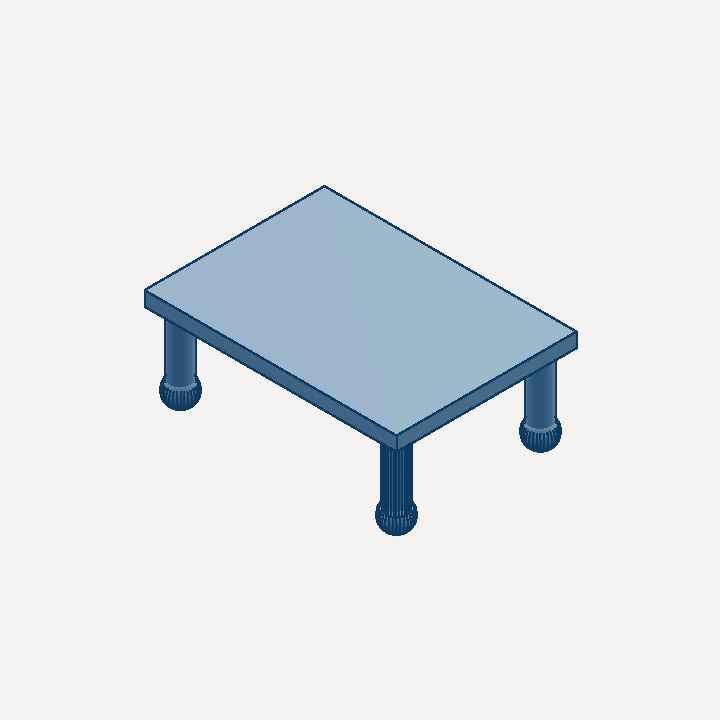
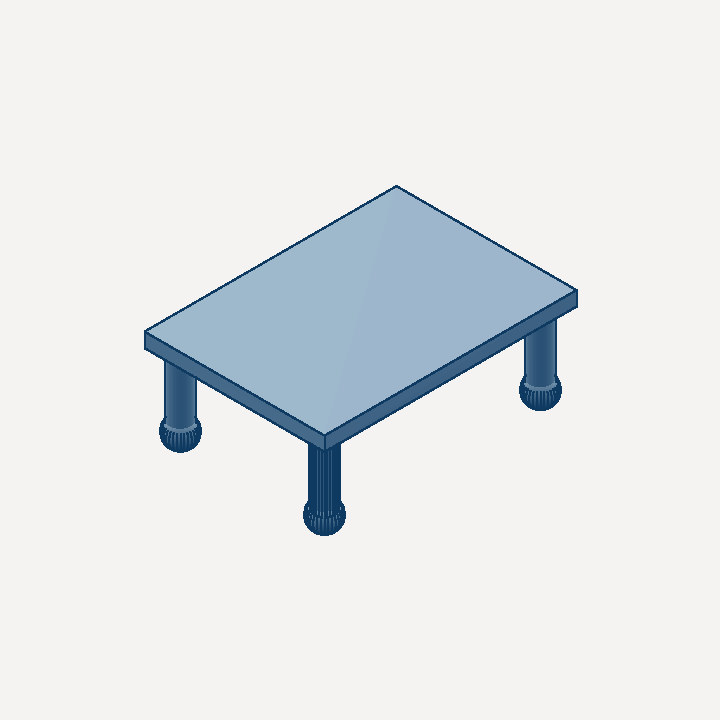
fix(render): un-mirror the default isometric view (#728)
`View::Isometric` used `right = [COS30, -COS30, 0]`, which makes
`right x down` point OUT of the screen — a left-handed screen basis, so
every isometric render was a mirror image. Reconstructing the camera
from that basis puts the eye at (-1,-1,-1), contradicting `cam()`'s own
doc comment. Every other view is right-handed, and so is the app
viewport (a real Three.js camera at (50,50,50)), so the static renderer
and the app have disagreed all along.

It survived because flat-shaded orthographic line art has no shadows,
reflections, or text — a mirror is visually indistinguishable. It only
became visible when a path tracer was pointed at the same basis.

- `right` is now `[-COS30, COS30, 0]`, the true screen-right for a
  camera at (1,1,1) with +Z up, keeping the legacy sqrt(1.5) scale.
  `down` is untouched and stays orthogonal, so the change is a pure
  horizontal mirror.
- `view_basis_handedness_is_pinned` asserts `right x down . cam == -1`
  for every variant (Orbit at three angle sets incl. elevation +/-90),
  and that the two are parallel at all, so a non-orthogonal basis trips
  it too. It failed on the old basis.
- Regenerated the 10 kernel-features docs assets from the loon sources
  in the MDX. The mecheval leaderboard cache (1563 timestamped SVGs of
  past runs) is deliberately left alone — those are historical records.
- "Left: fillet; right: chamfer" would have become false, so the
  chamfer's offset in that snippet moved to -60.
[…]

Changed region(s): [[0.1833, 0.2444, 0.825, 0.7639]]

diff --git a/crates/vcad-render/src/lib.rs b/crates/vcad-render/src/lib.rs
@@ -250,9 +250,12 @@ impl View {
     /// World direction mapping to screen +x.
     fn right(self) -> [f64; 3] {
         match self {
-            // Non-unit on purpose: preserves the exact legacy isometric
-            // projection (uniform √1.5 scale vs the axis views).
-            View::Isometric => [COS30, -COS30, 0.0],
+            // Screen-right for a camera at (1, 1, 1) looking at the origin
+            // with +Z up: (−1, 1, 0)/√2. Non-unit on purpose — the √1.5
+            // scale (vs the axis views) is the legacy isometric projection
+            // scale. Was [COS30, −COS30, 0] until 2026-07, which mirrored
+            // every isometric render; see `view_basis_handedness_is_pinned`.
+            View::Isometric => [-COS30, COS30, 0.0],
             View::Front => [1.0, 0.0, 0.0],
             View::Side => [0.0, -1.0, 0.0],
             View::Top => [1.0, 0.0, 0.0],
@@ -3940,6 +3943,64 @@ mod raytrace {
 #[cfg(test)]
 mod tests {
     use super::*;
+
+    /// Pins the handedness of every [`View`]'s screen basis.
+    ///
+    /// For a camera looking at the scene, `right × down` must point *into*
+    /// the screen, i.e. along `−cam` (`cam` points scene → camera). A basis
+    /// where it points along `+cam` renders a mirror image — invisible on
+    /// flat-shaded line art, obvious once shadows or reflections exist.
+    ///
+    /// `View::Isometric` was mirrored until 2026-07 (`right = [COS30,
+    /// −COS30, 0]`), which mirrored every default render — docs assets,
+    /// mecheval leaderboard, MCP `render_view`. Every view is non-mirrored
+    /// now; a `+1` here means someone flipped a basis by accident.
+    #[test]
+    fn view_basis_handedness_is_pinned() {
+        // right × down points INTO the screen for every view.
+        let cases: &[(View, f64)] = &[
+            (View::Isometric, -1.0),
+            (View::Front, -1.0),
+            (View::Side, -1.0),
+            (View::Top, -1.0),
+            (
+                View::Orbit {
+                    azimuth: 45.0,
+                    elevation: 35.0,
+                },
+                -1.0,
+            ),
+            (
+                View::Orbit {
+                    azimuth: -117.0,
+                    elevation: -12.0,
+                },
+                -1.0,
+            ),
+            (
+                View::Orbit {
+                    azimuth: 0.0,
+                    elevation: 90.0,
+                },
+                -1.0,
+            ),
+        ];
+
+        for &(view, want_sign) in cases {
+            let n = normalize(cross(view.right(), view.down()));
+            let cam = normalize(view.cam());
+            // n must be parallel (or antiparallel) to cam: |dot| ≈ 1.
+            let dot = n[0] * cam[0] + n[1] * cam[1] + n[2] * cam[2];
+            assert!(
+                (dot.abs() - 1.0).abs() < 1e-9,
+                "{view:?}: right × down is not parallel to cam (dot = {dot})",
+            );
+            assert!(
+                (dot - want_sign).abs() < 1e-9,
+                "{view:?}: handedness flipped — right × down · cam = {dot}, expected {want_sign}",
+            );
+        }
+    }
 
     #[test]
     fn render_style_parses_known_names_and_rejects_unknown() {
